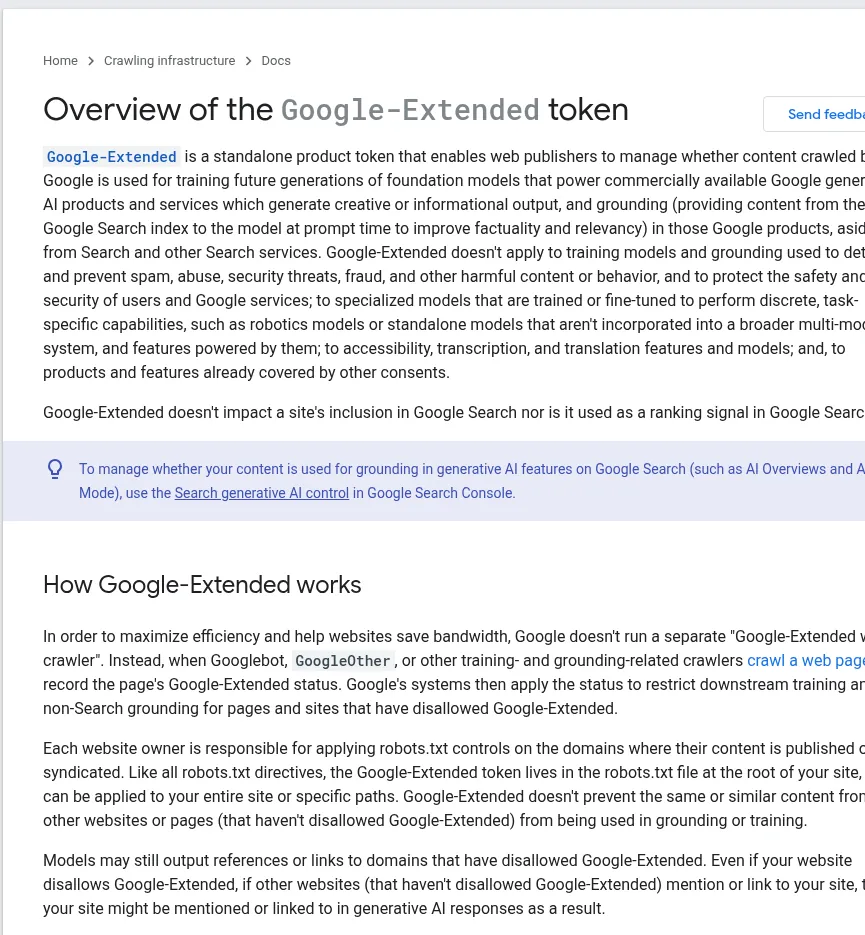
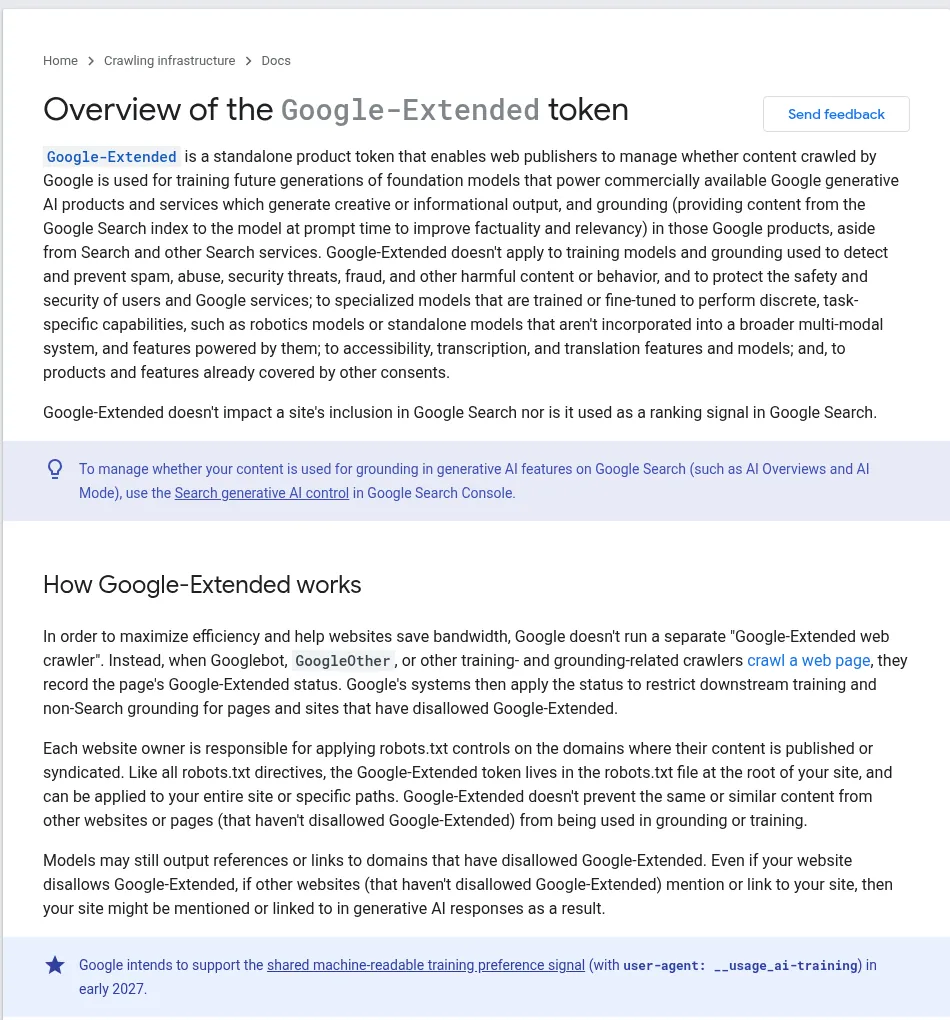
Blog fix: Google-Extended post screenshot full width (was cropped) + plain link text

Changed region(s): [[0.0312, 0.031, 1.0, 0.5893], [0.0312, 0.6203, 1.0, 0.9925], [0.2809, 0.031, 0.3121, 0.062]]

diff --git a/src/constant/blogs.ts b/src/constant/blogs.ts
@@ -64,7 +64,7 @@ export const POSTS: BlogPost[] = [
         excerpt: 'On 24 November 2026 Google published a standalone page on the Google-Extended token and rewrote its guide to controlling how website content is used for generative AI. Here is the difference between AI training and grounding, what each control actually does, and our advice for a local business.',
         cover: '/images/blog/google-extended-ai-training-grounding-controls.png',
         body: [
-            { p: 'Many business owners have asked us some version of the same question this year: “Is Google using my website to train its AI, and can I stop it without disappearing from Google?” On **24 November 2026** Google gave a much clearer answer. It added a [standalone page on the **Google-Extended** token](https://developers.google.com/crawling/docs/google-extended) to its crawling documentation and updated its guide [Control how your content is used for generative AI at Google](https://developers.google.com/search/docs/fundamentals/gen-ai-controls).' },
+            { p: 'Many business owners have asked us some version of the same question this year: “Is Google using my website to train its AI, and can I stop it without disappearing from Google?” On **24 November 2026** Google gave a much clearer answer. It added a [standalone page on the Google-Extended token](https://developers.google.com/crawling/docs/google-extended) to its crawling documentation and updated its guide [Control how your content is used for generative AI at Google](https://developers.google.com/search/docs/fundamentals/gen-ai-controls).' },
             { p: '[Search Engine Land reported](https://searchengineland.com/google-releases-new-search-ranking-transparency-hub-502957) that the new documents came out alongside Google’s new Search ranking hub, and that Google said there is **no change in how it honours Google-Extended**: it does not remove sites from Search results and is not a ranking signal. Below, every rule is taken from Google’s own pages, followed by what we think it means for a local business.' },
             { h2: 'What Google-Extended is, in plain words' },
             { p: 'Google-Extended is a **product token you use in robots.txt**, not a separate crawler. Google says it does not run a “Google-Extended web crawler”. Instead, when Googlebot, GoogleOther or other training- and grounding-related crawlers fetch a page, they record whether that page has disallowed Google-Extended, and Google’s systems apply that choice later.' },
@@ -73,7 +73,7 @@ export const POSTS: BlogPost[] = [
                 '**Training:** using your content to train future generations of Google’s foundation models;',
                 '**Grounding:** giving your content from the Search index to those AI products at prompt time to make answers more factual, in products “aside from Search and other Search services”, such as the Gemini app.',
             ] },
-            { figure: { src: '/images/blog/google-extended-token-overview-google-docs.webp', alt: 'Screenshot of Google’s crawling documentation page Overview of the Google-Extended token, explaining that it manages training and grounding for Google generative AI products and does not affect inclusion or ranking in Google Search', caption: 'Google’s new standalone page on the Google-Extended token, captured live on 27 November 2026 (page last updated 24 November 2026).', sourceLabel: 'Google Crawling Infrastructure: Overview of the Google-Extended token', sourceUrl: 'https://developers.google.com/crawling/docs/google-extended', width: 865, height: 935 } },
+            { figure: { src: '/images/blog/google-extended-token-overview-google-docs.webp', alt: 'Screenshot of Google’s crawling documentation page Overview of the Google-Extended token, explaining that it manages training and grounding for Google generative AI products and does not affect inclusion or ranking in Google Search', caption: 'Google’s new standalone page on the Google-Extended token, captured live on 27 November 2026 (page last updated 24 November 2026).', sourceLabel: 'Google Crawling Infrastructure: Overview of the Google-Extended token', sourceUrl: 'https://developers.google.com/crawling/docs/google-extended', width: 950, height: 1020 } },
             { p: 'Google also lists what Google-Extended does **not** cover: models used to fight spam, fraud and abuse or to protect users, specialised task-specific models, accessibility, transcription and translation features, and products already covered by other consents.' },
             { h2: 'Training vs grounding: why the difference matters' },
             { p: 'Google’s updated guide separates the two uses of crawled content clearly:' },
